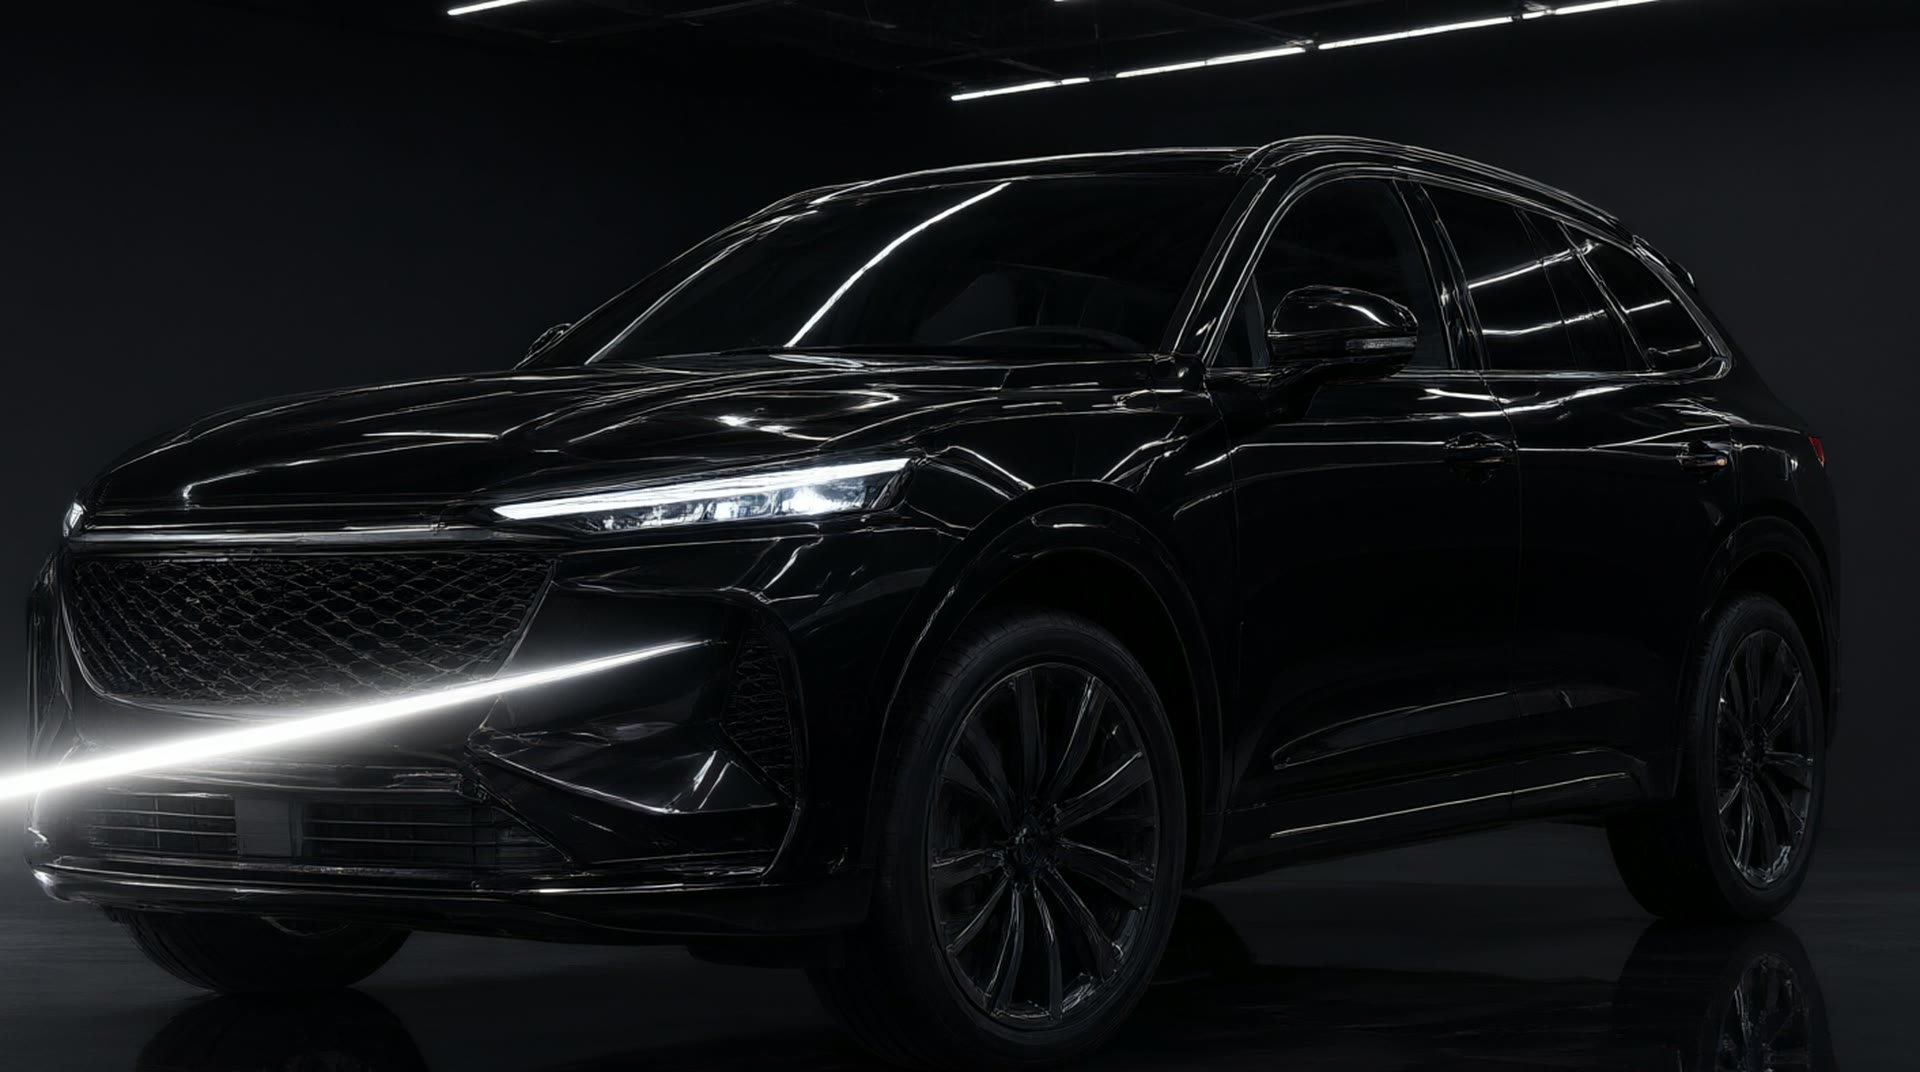
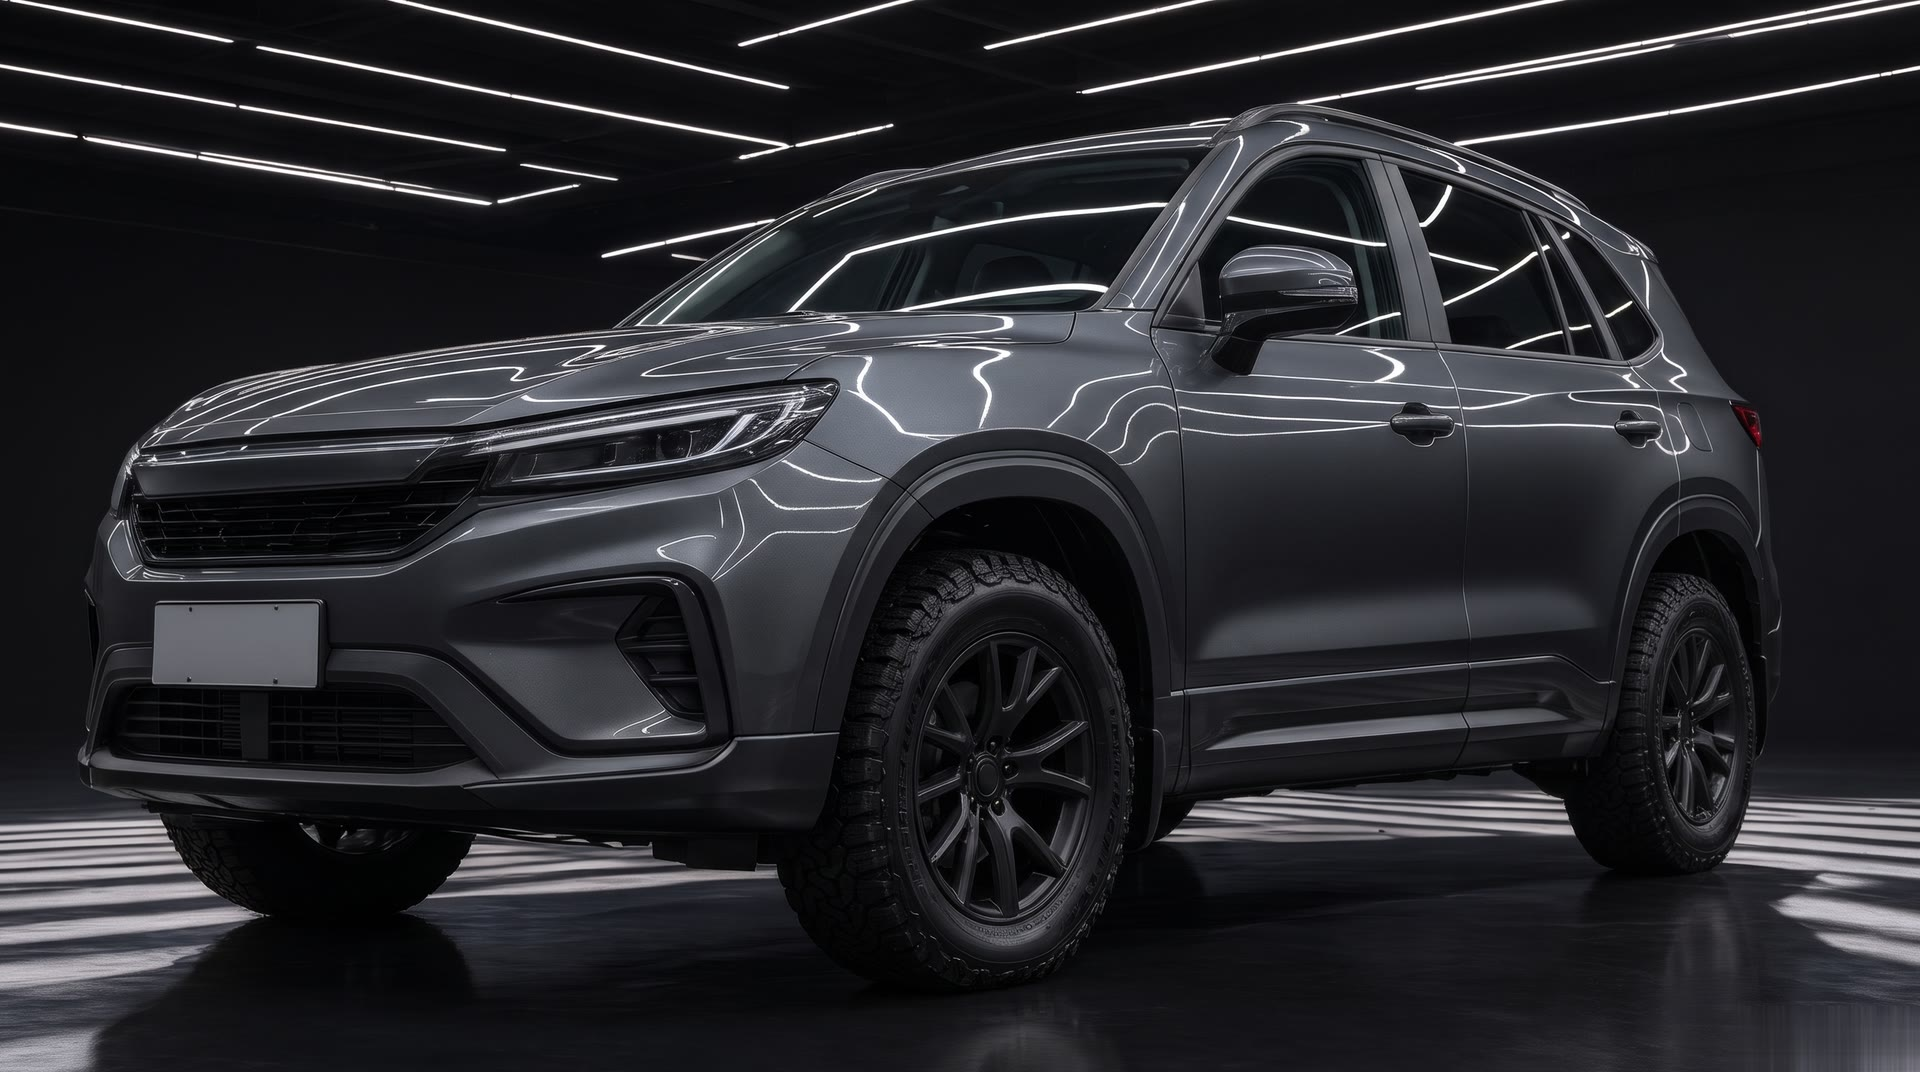
style: image propre identique à la voiture boueuse

diff --git a/docs/demandes.md b/docs/demandes.md
@@ -59,7 +59,7 @@ Légende : ✅ fait et en ligne après déploiement · 🔧 en cours · ⏳ à f
 - ✅ Le scénario se joue aussi quand le pro est connecté (avant : l'image finale s'affichait directement en mode modification).
 - ✅ Le scénario du haut de l'accueil se joue tout seul à l'arrivée (environ 15 s, une pause sur chaque image) ; remonter le rejoue à l'envers au fil du défilement. Le moindre geste du visiteur arrête la lecture automatique ; pas de lecture si on arrive plus bas dans la page. Premier titre : « Avant. ».
 - ✅ Haut de l'accueil avec vos images créées par IA (Qwen), au fil du défilement : voiture boueuse (« Faites défiler pour nettoyer. »), la mousse coule dessus (« On applique la mousse. »), une barre de lumière la rince de gauche à droite (« On rince. »), on se rapproche de la voiture propre (« Regardez de plus près. »), porte du garage et lumière dorée, puis le texte et le panneau « Réserver votre lavage ». Réglages dans `data/heroScenes.ts`, images dans `public/scenes/`. Le logo « Qwen » est retiré par recadrage : vérifier que les conditions de Qwen le permettent pour un site professionnel.
-- ⏳ Pour un nettoyage « même voiture » parfait : demander à Qwen la version propre de l'image boueuse (même cadrage).
+- ✅ Image « voiture propre » refaite à partir de l'image boueuse (même voiture, même cadrage) : le rinçage nettoie vraiment la même voiture.
 - ✗ (remplacé) Haut de l'accueil, mécanisme du reel : vidéo qui avance et recule avec le défilement (scène épinglée), grands titres par étape en bas à droite, fine barre d'avancement, puis le texte de l'accueil à gauche et le panneau « Réserver votre lavage » (catégories avec prix « dès », bouton créneau, téléphone) qui glisse à droite. Réglages dans `data/heroVideo.ts`. Vidéo provisoire : le clip libre de droits.
 - ✗ (remplacé par les images) Générer la vidéo du haut de l'accueil avec une IA vidéo (5 plans : lavage par un faisceau de lumière, capot, micro-rayures polies, goutte, porte du garage) : consignes prêtes dans `docs/video-ia.md`, puis me déposer les 5 fichiers.
 - ✗ (remplacé) Haut de l'accueil avant / après : « Faites défiler pour nettoyer » sur l'habitacle sale, une barre de lumière le nettoie au fil du défilement ; « Regardez de plus près » : le phare jauni arrive et se rénove de la même façon ; puis le titre, les boutons et les points forts arrivent, et la suite du site. Avec vos vraies photos avant / après (habitacle cuir, phare). Mode modification et « moins d'animations » : directement le texte sur la photo « après ». Le clip vidéo précédent est retiré.

diff --git a/docs/CHANGELOG.md b/docs/CHANGELOG.md
@@ -207,6 +207,7 @@
 - Accueil : scénario en 6 s, textes dans le coin en haut à gauche, plus compacts.
 - Accueil : voiture fixe (images recadrées au même endroit, sans zoom), surtitre sur une ligne, titres sans chevauchement, panneau Réserver à droite menant au planning avec la formule cochée (?formule=…&etape=creneau).
 - Accueil : recul progressif sur l'image du garage jusqu'à son cadrage d'origine.
+- Accueil : nouvelle image « voiture propre », identique à la voiture boueuse (même cadrage), alignée.
 
 ### Corrigé
 - Kit front : vocabulaire métier retiré des blocs et de leurs tests (`ChoiceChips`, `PriceSummary`, `Stepper`), conformément à la règle « aucun métier dans packages/ ».
